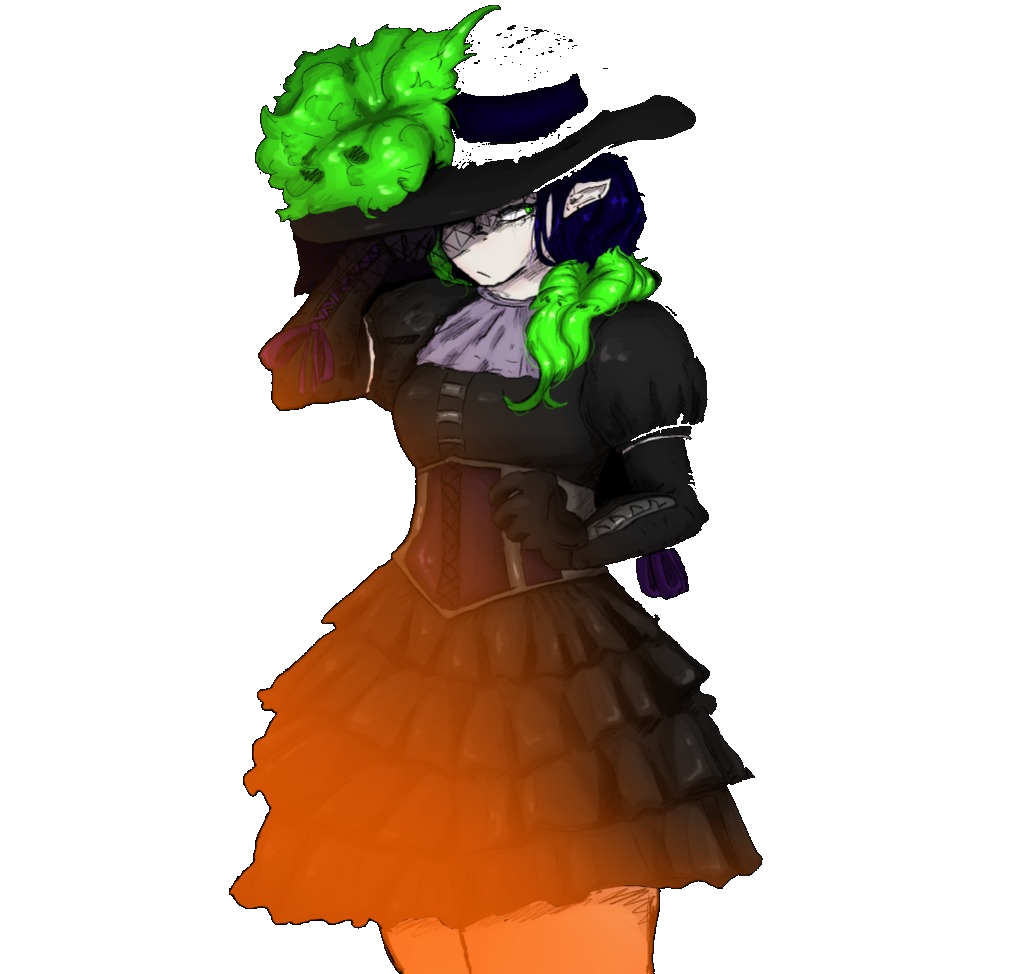
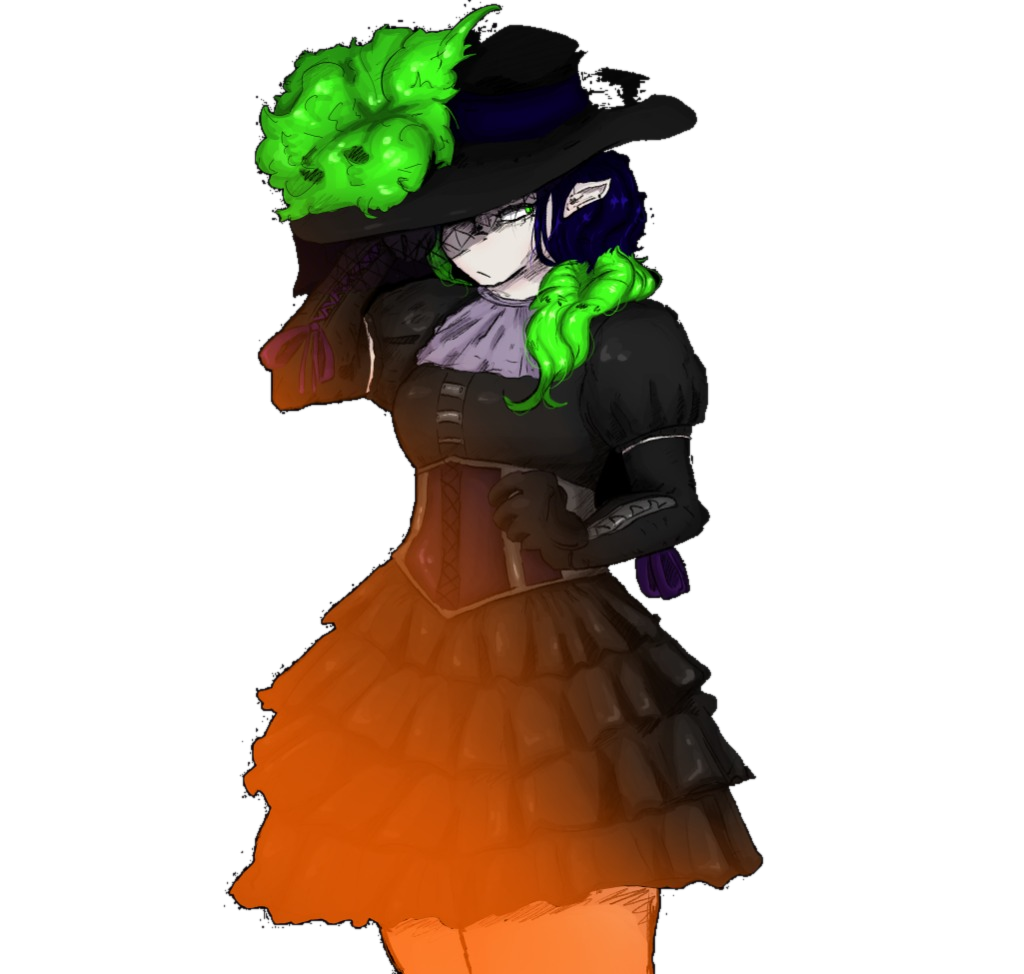
fix(personagens): corrigir mascara solida de Odara sem vazamentos e atribuir arte de Nerva para Minerva (Slot 2)

diff --git a/js/mesa.js b/js/mesa.js
@@ -839,6 +839,8 @@ const MesaApp = {
       altura: '1,78m',
       raca: 'Vampira',
       arquetipo: 'Nerd',
+      imagem: 'assets/minerva.png',
+      avatar: 'assets/minerva_avatar.png',
       hp: 12, hpMax: 12,
       pe: 10, peMax: 10,
       st: 0, stMax: 40,
@@ -908,8 +910,6 @@ const MesaApp = {
       raca: 'Animalesco',
       arquetipo: 'Rebelde',
       classe: 'Adivinha',
-      imagem: 'assets/pera.png',
-      avatar: 'assets/pera_avatar.png',
       hp: 12, hpMax: 12,
       pe: 10, peMax: 10,
       st: 0, stMax: 24,
@@ -1160,14 +1160,14 @@ const MesaApp = {
             p.avatar = 'assets/thulita_avatar.png';
           }
 
+          if (p.token === 'N3L8' || p.slot === 2) {
+            p.imagem = 'assets/minerva.png';
+            p.avatar = 'assets/minerva_avatar.png';
+          }
+
           if (p.token === 'R5K1' || p.slot === 3) {
             p.imagem = 'assets/eric.png';
             p.avatar = 'assets/eric_avatar.png';
-          }
-
-          if (p.token === 'H2Q9' || p.slot === 4) {
-            p.imagem = 'assets/pera.png';
-            p.avatar = 'assets/pera_avatar.png';
           }
 
           if (p.token === 'T6D3' || p.slot === 6) {
@@ -1205,6 +1205,7 @@ const MesaApp = {
       if (!this.state.players[1]) {
         this.state.players[1] = {
           id: 3, slot: 2, token: 'N3L8', nome: 'Sanguiminerva "Minerva" Qamari Von Adams', idade: '18 anos', altura: '1,78m', raca: 'Vampira', arquetipo: 'Nerd',
+          imagem: 'assets/minerva.png', avatar: 'assets/minerva_avatar.png',
           hp: 12, hpMax: 12, pe: 10, peMax: 10, st: 0, stMax: 40, stressPoints: 0, stressPointsMax: 6,
           atributos: { 'Saúde': 'd8', 'Vigor': 'd12', 'Força': 'd4', 'Mente': 'd16' },
           bonus: [{ origem: 'Raça (Vampira)', desc: '+d4 em testes de Mente e Visão no Escuro (5B)' }, { origem: 'Arquétipo (Nerd)', desc: '+d4 em Testes de Mente' }],
@@ -1235,7 +1236,6 @@ const MesaApp = {
       if (!this.state.players[3]) {
         this.state.players[3] = {
           id: 4, slot: 4, token: 'H2Q9', nome: 'Pera Hylidae da Silva', idade: '18 anos', altura: '1,58m', raca: 'Animalesco', arquetipo: 'Rebelde', classe: 'Adivinha',
-          imagem: 'assets/pera.png', avatar: 'assets/pera_avatar.png',
           hp: 12, hpMax: 12, pe: 10, peMax: 10, st: 0, stMax: 24, stressPoints: 0, stressPointsMax: 6,
           atributos: { 'Mente': 'd4', 'Saúde': 'd8', 'Vigor': 'd12', 'Força': 'd16' },
           bonus: [

diff --git a/js/wuitter.js b/js/wuitter.js
@@ -84,7 +84,7 @@ const DEFAULT_ACCOUNTS = [
     handle: '@minerva',
     bio: 'Médica de campo e estudiosa de patologias arcanas. Café sem açúcar e prontuários em dia.',
     avatarLetter: 'M',
-    avatarImage: '',
+    avatarImage: 'assets/minerva_wuitter.png',
     avatarColor: '#8b5cf6',
     badge: 'none',
     isMaster: false
@@ -120,7 +120,7 @@ const DEFAULT_ACCOUNTS = [
     handle: '@pera',
     bio: 'Navegadora e cartógrafa das correntes de éter. Conheço cada beco e cada rota de fuga.',
     avatarLetter: 'P',
-    avatarImage: 'assets/pera_wuitter.png',
+    avatarImage: '',
     avatarColor: '#f59e0b',
     badge: 'none',
     isMaster: false
